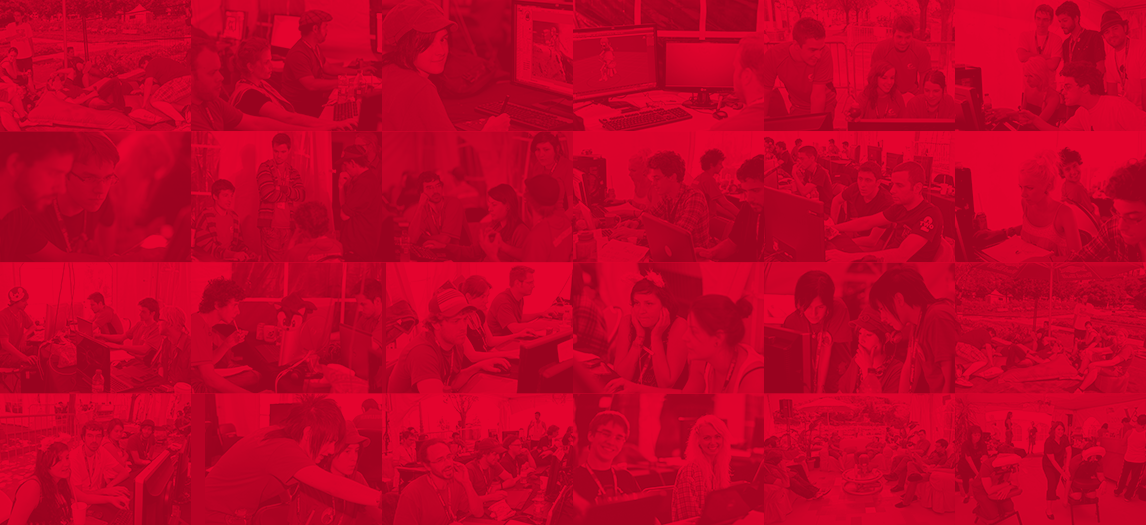
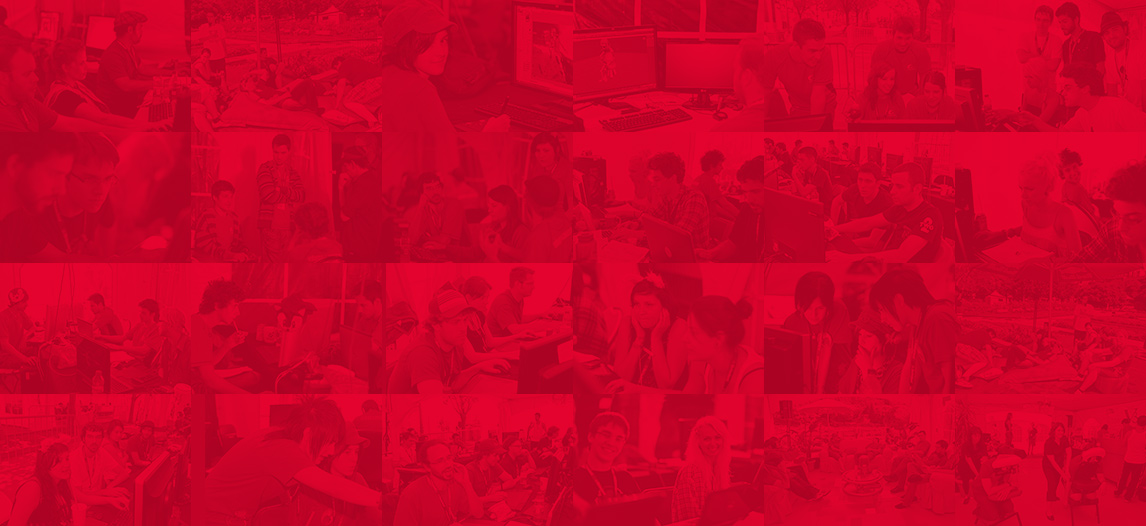
Multiple backgrounds on header + improved image

diff --git a/css/styles.css b/css/styles.css
@@ -234,7 +234,8 @@ header {
   overflow: hidden;
   height: 430px;
   padding-top: 40%;
-  background: url("../images/header-bg.png") center bottom repeat;
+  background: #e4032e url("../images/header-bg.png") center bottom repeat;
+  background: -webkit-linear-gradient(top, rgba(228,3,46,0.20), rgba(50,64,79,0.20)), url("../images/header-bg.png") center bottom repeat, #e4032e;
 }
 header a:link,
 header a:visited {
@@ -360,7 +361,6 @@ header .hint li + li {
   line-height: 1.1;
 }
 #intro p {
-  color: #2f353b;
   padding-top: 0.7em;
   padding-right: 2em;
 }
